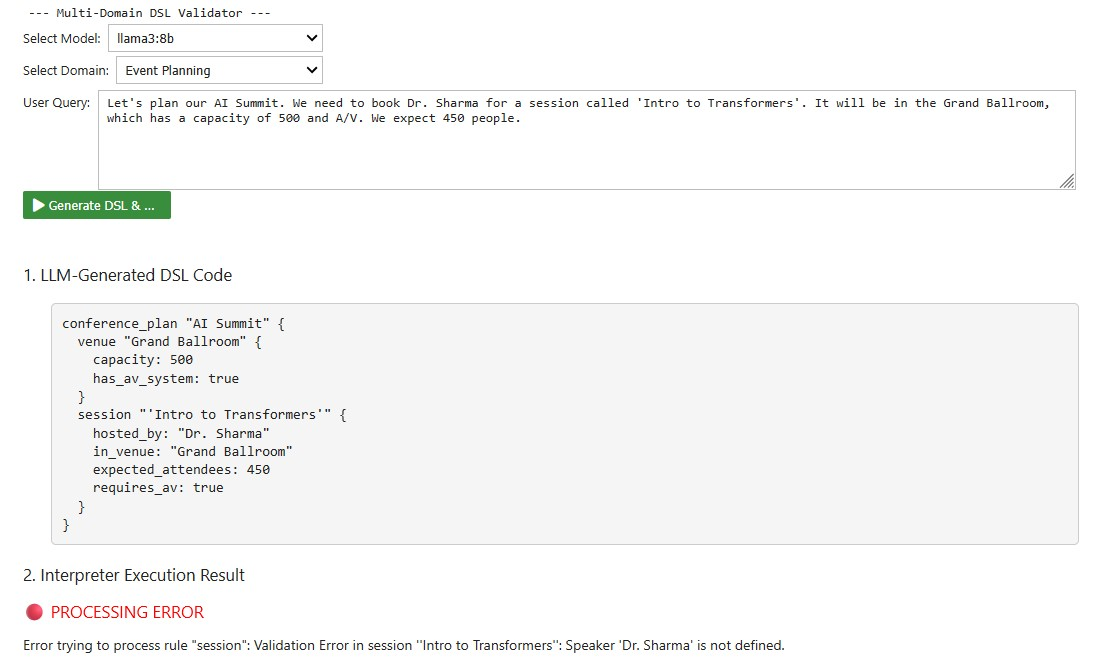
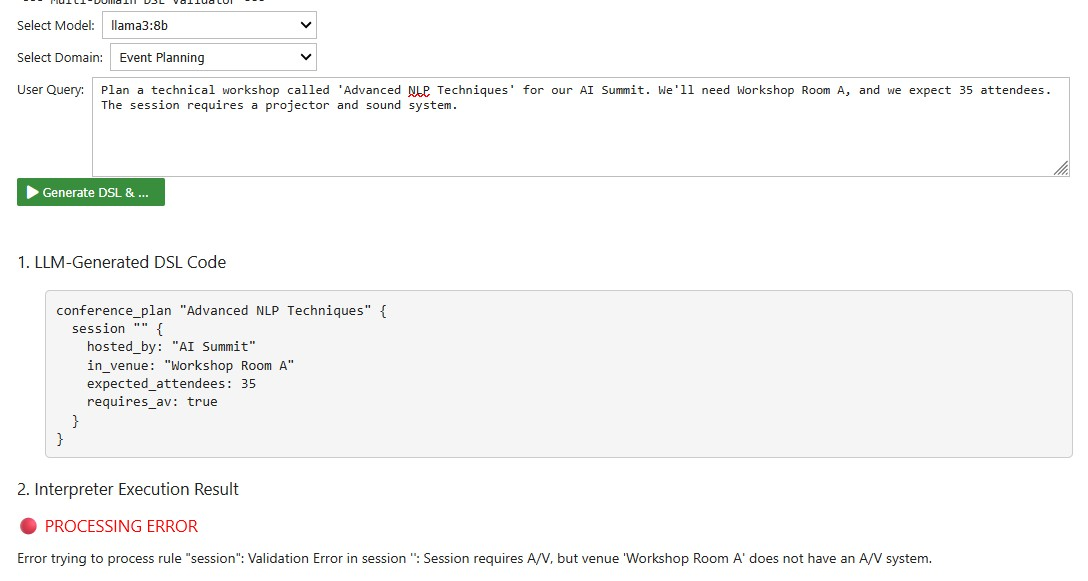
Adding checks to event interpreter to checck venue facilities

diff --git a/src/domains/event/interpreter.py b/src/domains/event/interpreter.py
@@ -3,10 +3,18 @@ from ...framework.base_interpreter import BaseInterpreter, v_args
 
 class EventInterpreter(BaseInterpreter):
     def __init__(self):
-        self.venues = {}
+        # The interpreter is now the "source of truth" for venue data.
+        self.venues = {
+            "Grand Ballroom": {"capacity": 500, "has_av_system": True},
+            "Workshop Room A": {"capacity": 40, "has_av_system": False},
+            "Workshop Room B": {"capacity": 40, "has_av_system": True},
+            "Lecture Hall C": {"capacity": 100, "has_av_system": True}
+        }
         self.speakers = set()
         self.sessions = []
         self.plan_name = ""
+        # New property to track venue bookings for validation.
+        self.venue_bookings = {}
 
     def _parse_boolean(self, cname):
         return str(cname).lower() == 'true'
@@ -22,17 +30,6 @@ class EventInterpreter(BaseInterpreter):
             "sessions": self.sessions
         }
 
-    def venue(self, children):
-        venue_name = children[0]
-        properties = dict(children[1:])
-        self.venues[venue_name] = properties
-
-    @v_args(inline=True)
-    def venue_capacity(self, capacity): return ("capacity", capacity)
-
-    @v_args(inline=True)
-    def venue_av(self, has_av): return ("has_av_system", self._parse_boolean(has_av))
-
     @v_args(inline=True)
     def speaker_def(self, name):
         self.speakers.add(name)
@@ -41,16 +38,19 @@ class EventInterpreter(BaseInterpreter):
         session_name = children[0]
         properties = dict(children[1:])
         
-        speaker = properties.get('hosted_by')
         venue_name = properties.get('in_venue')
         
-        if speaker and speaker not in self.speakers:
-            raise ValueError(f"Validation Error in session '{session_name}': Speaker '{speaker}' is not defined.")
+        # --- NEW VALIDATION LOGIC ---
         
         if venue_name not in self.venues:
-            raise ValueError(f"Validation Error in session '{session_name}': Venue '{venue_name}' is not defined.")
+            raise ValueError(f"Validation Error in session '{session_name}': Venue '{venue_name}' does not exist.")
+
+        if venue_name in self.venue_bookings:
+            conflicting_session = self.venue_bookings[venue_name]
+            raise ValueError(f"Validation Error in session '{session_name}': Venue '{venue_name}' is already booked by session '{conflicting_session}'.")
 
         venue = self.venues[venue_name]
+        
         attendees = properties.get('expected_attendees', 0)
         venue_capacity = venue.get('capacity', 0)
         if attendees > venue_capacity:
@@ -61,13 +61,17 @@ class EventInterpreter(BaseInterpreter):
         if session_reqs_av and not venue_has_av:
             raise ValueError(f"Validation Error in session '{session_name}': Session requires A/V, but venue '{venue_name}' does not have an A/V system.")
 
+        self.venue_bookings[venue_name] = session_name
         self.sessions.append({"name": session_name, **properties})
 
     @v_args(inline=True)
     def session_speaker(self, name): return ("hosted_by", name)
+    
     @v_args(inline=True)
     def session_venue(self, name): return ("in_venue", name)
+    
     @v_args(inline=True)
     def session_attendees(self, num): return ("expected_attendees", num)
+    
     @v_args(inline=True)
     def session_requires_av(self, req_av): return ("requires_av", self._parse_boolean(req_av))

diff --git a/src/core.py b/src/core.py
@@ -84,18 +84,11 @@ def extract_dsl_from_string(text: str, start_word: str) -> str:
     return match.group(0) if match else None
 
 def assemble_event_dsl_from_json(json_string: str) -> str:
-    """Assembles the event planning DSL from a JSON string."""
+    """Assembles the event planning DSL from a JSON string, IGNORING venue definitions."""
     data = json.loads(json_string)
     dsl = []
     plan_name = data.get("plan_name", "Unnamed Plan")
     dsl.append(f'conference_plan "{plan_name}" {{')
-    
-    for venue in data.get("venues", []):
-        dsl.append(f'  venue "{venue.get("name", "N/A")}" {{')
-        dsl.append(f'    capacity: {venue.get("capacity", 0)}')
-        dsl.append(f'    has_av_system: {str(venue.get("has_av_system", False)).lower()}')
-        dsl.append('  }')
-
     for speaker in data.get("speakers", []):
         dsl.append(f'  speaker "{speaker.get("name", "N/A")}"')
 
@@ -110,12 +103,10 @@ def assemble_event_dsl_from_json(json_string: str) -> str:
     dsl.append('}')
     return "\n".join(dsl)
 
-# --- Public API ---
 def process_event_plan_request(user_query: str, model_name: str = AppConfig.DEFAULT_MODEL) -> Dict[str, Any]:
     """Processes a user request to create an event plan by generating JSON and then a DSL."""
     prompt = """From the user's request, extract entities for a conference plan.
-The possible entities are: plan_name, venues, speakers, and sessions.
-- A venue has a `name`, `capacity` (number), and `has_av_system` (boolean).
+The possible entities are: plan_name, speakers, and sessions.
 - A session has a `name`, `hosted_by` (string), `in_venue` (string), `expected_attendees` (number), and `requires_av` (boolean).
 Return a single JSON object.
 
@@ -129,6 +120,7 @@ JSON Response:"""
         model_name,
         dsl_extractor=assemble_event_dsl_from_json
     )
+
 
 def process_order_request(user_query: str, model_name: str = AppConfig.DEFAULT_MODEL) -> Dict[str, Any]:
     """Processes a user request to create a bill by generating a DSL."""
